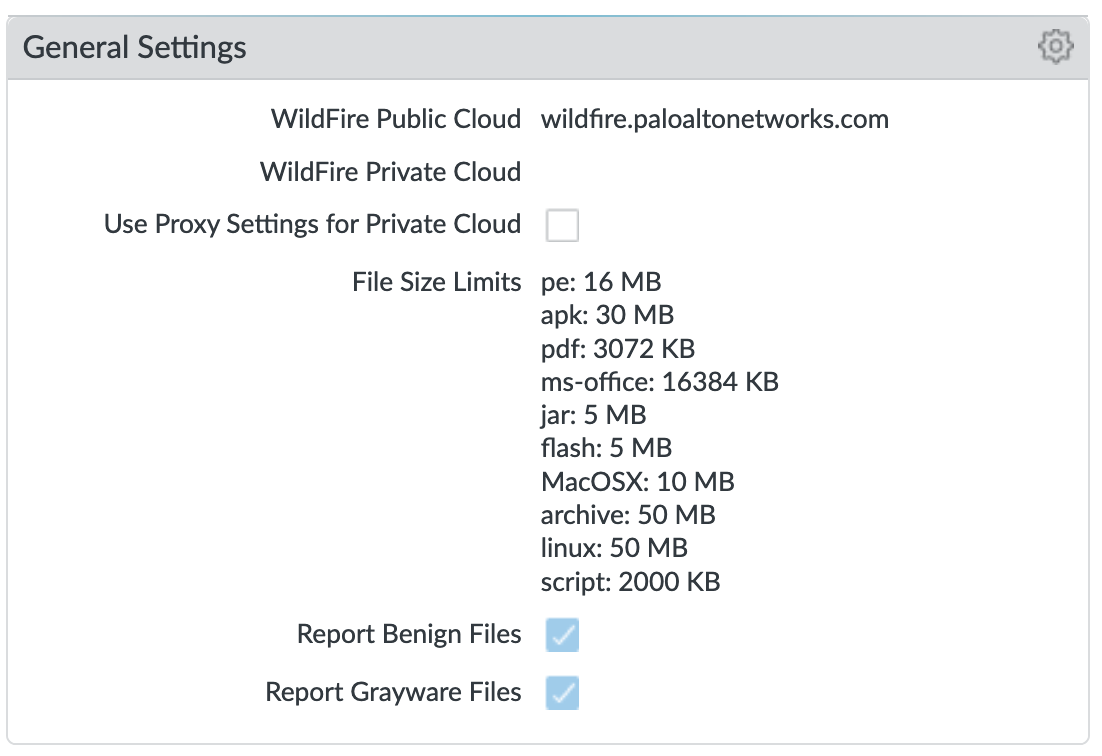
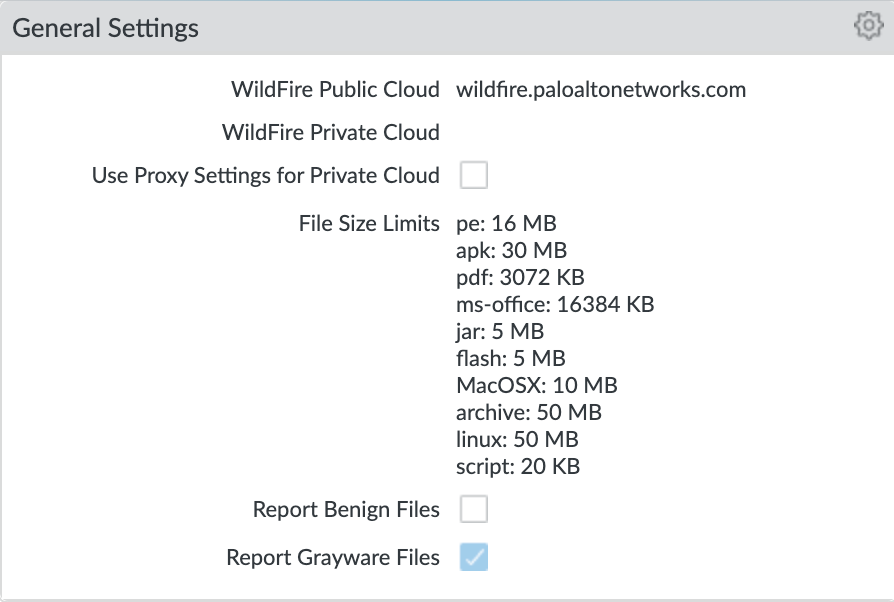
Viz Guide updates for 10.2

diff --git a/docs/viz_guide_panos.rst b/docs/viz_guide_panos.rst
@@ -97,8 +97,8 @@ Changes to Logging and Reporting Settings:
 Log Suppression (CLI only)
 ++++++++++++++++++++++++++
 
-Log suppression, when enabled, is a feature that instructs the Palo Alto Networks device to combine multiple similar logs into a single log entry 
-on the Monitor > Logs > Traffic page. 
+Log suppression, when enabled, is a feature that instructs the Palo Alto Networks device to combine multiple similar logs into a single log entry
+on the Monitor > Logs > Traffic page.
 
 Disabled to ensure unique log entries even if similar session types
 
@@ -221,7 +221,7 @@ Disable this option to prevent the firewall
 from forwarding TCP segments and skipping content inspection when the content inspection queue is full.
 
 **Disable Forward segments exceeding UDP content inspection queue**:
-Disable this option to prevent the firewall from forwarding UDP segments and skipping content inspection when the content inspection queue is full. 
+Disable this option to prevent the firewall from forwarding UDP segments and skipping content inspection when the content inspection queue is full.
 
 
 Device > Setup > Content-ID > X-Forwarded-For Headers
@@ -273,7 +273,7 @@ Key configuration elements:
 
     + **WildFire Public Cloud**: where to send file samples for analysis; defaults to the US-based url and can be changed to various regional sites
     + **File Size Limits**: recommended maximum file sizes to send to WildFire
-    + **Report Benign/Grayware Files**: shows these verdicts in the Wildfire submissions logs
+    + **Report Grayware Files**: shows verdicts in the Wildfire submissions logs
 
 .. _wildfire global cloud documentation: https://docs.paloaltonetworks.com/wildfire/10-0/wildfire-admin/wildfire-overview/wildfire-deployments/wildfire-global-cloud.html#
 
@@ -284,7 +284,7 @@ Key configuration elements:
 Session
 ~~~~~~~~
 
-Configure session age-out times, decryption certificate settings, and global session-related settings such as firewalling 
+Configure session age-out times, decryption certificate settings, and global session-related settings such as firewalling
 IPv6 traffic and rematching Security policy to existing sessions when the policy changes.
 
 .. _Device - Setup - Session: https://docs.paloaltonetworks.com/pan-os/10-0/pan-os-web-interface-help/device/device-setup-session.html
@@ -411,7 +411,7 @@ Device > Log Settings > System
 
 **System_Log_Forwarding**: As reference, forward all system logs as syslog using a configured syslog profile
 
-Profiles configurations are in the section :ref:`Server Profiles`. 
+Profiles configurations are in the section :ref:`Server Profiles`.
 
 Configuration
 ~~~~~~~~~~~~~
@@ -444,7 +444,7 @@ Device > Log Settings > User-ID
 
 **User-ID_Log_Forwarding**: As reference, forward all user ID logs as syslog using a configured syslog profile
 
-Profiles configurations are in the section :ref:`Server Profiles`. 
+Profiles configurations are in the section :ref:`Server Profiles`.
 
 Host Information Profile (HIP) Match
 ~~~~~~~~~~~~~~~~~~~~~~~~~~~~~~~~~~~~
@@ -488,7 +488,7 @@ Device > Log Settings > IP-Tag
 
 **IP_Tag**: As reference, forward all IP-Tag logs as syslog using a configured syslog profile
 
-Profiles configurations are in the section :ref:`Server Profiles`.  
+Profiles configurations are in the section :ref:`Server Profiles`.
 
 .. _Server Profiles:
 
@@ -502,7 +502,7 @@ Server Profiles
      General configuration information in the Admin Guide: `Device - Server Profiles`_
 
 .. Note::
-    Since are operational and may vary across user environments, these are focused as ‘reference configurations’ as part of a 
+    Since are operational and may vary across user environments, these are focused as ‘reference configurations’ as part of a
     recommended day one starter configuration.
 
 .. Note::
@@ -556,7 +556,7 @@ Dynamic Updates
 IronSkillet Dynamic Updates
 ~~~~~~~~~~~~~~~~~~~~~~~~~~~
 
-Dynamic updates allow the firewall to periodically check for content updates. Without this schedule configured, no new signature, 
+Dynamic updates allow the firewall to periodically check for content updates. Without this schedule configured, no new signature,
 vulnerabilities, malicious domains, or GlobalProtect files will be locally loaded into the firewall.
 
 Device > Dynamic Updates : schedules
@@ -566,37 +566,37 @@ Device > Dynamic Updates : schedules
    :width: 600
    :align: center
 
-Updates are configured with minimum time values to ensure new content loads are applied when available. 
+Updates are configured with minimum time values to ensure new content loads are applied when available.
 They are also installed at the time of download.
 
 Time schedules are varied around the hour to avoid download/install overlap between update types.
 
 Antivirus
 ~~~~~~~~~
-Includes new and updated antivirus signatures, including signatures discovered by WildFire. You must have a Threat Prevention 
+Includes new and updated antivirus signatures, including signatures discovered by WildFire. You must have a Threat Prevention
 subscription to get these updates. New antivirus signatures are published daily.
 
 Applications and Threats
 ~~~~~~~~~~~~~~~~~~~~~~~~
-Includes new and updated application and threat signatures. This update is available if you have a Threat Prevention subscription 
-(and in this case you will get this update instead of the Applications update). New Applications and Threats updates are published weekly. 
+Includes new and updated application and threat signatures. This update is available if you have a Threat Prevention subscription
+(and in this case you will get this update instead of the Applications update). New Applications and Threats updates are published weekly.
 This means that the latest content update always includes the application and threat signatures released in previous versions.
 
 WildFire
 ~~~~~~~~
 Provides real-time malware and antivirus signatures created as a result of the analysis done by the WildFire public cloud.
-Without the WildFire subscription, you must wait 24 to 48 hours for the WildFire signatures to roll into the Applications and Threat update. 
+Without the WildFire subscription, you must wait 24 to 48 hours for the WildFire signatures to roll into the Applications and Threat update.
 
 GlobalProtect Clientless VPN
 ~~~~~~~~~~~~~~~~~~~~~~~~~~~~
-Contains new and updated application signatures to enable Clientless VPN access to common web applications from the GlobalProtect portal. 
-You must have a GlobalProtect subscription to receive these updates. In addition, you must create a schedule for these updates before 
+Contains new and updated application signatures to enable Clientless VPN access to common web applications from the GlobalProtect portal.
+You must have a GlobalProtect subscription to receive these updates. In addition, you must create a schedule for these updates before
 GlobalProtect Clientless VPN will function.
 
 GlobalProtect Data File
 ~~~~~~~~~~~~~~~~~~~~~~~
-Contains the vendor-specific information for defining and evaluating host information profile (HIP) data returned by GlobalProtect apps. 
-You must have a GlobalProtect gateway subscription in order to receive these updates. In addition, you must create a schedule for these 
+Contains the vendor-specific information for defining and evaluating host information profile (HIP) data returned by GlobalProtect apps.
+You must have a GlobalProtect gateway subscription in order to receive these updates. In addition, you must create a schedule for these
 updates before GlobalProtect will function.
 
 Network
@@ -614,20 +614,21 @@ Network Profiles
 Zone Protection
 ~~~~~~~~~~~~~~~
 
-IronSkillet includes ‘non volumetric’ recommendations that are device and deployment specific. 
-This is configured as the Recommended_Zone_Protection profile and should be added to configured zones.
+IronSkillet includes ‘non volumetric’ recommendations that are device and deployment specific.
+This is configured as the Recommended_Zone_Protection profile and should be added to configured zones. IronSkillet also
+provides an Alert_Only_Zone_Protection profile for users to monitor zones without blocking traffic.
 
 .. Note::
     IronSkillet does not include zone configurations so the user must apply this profile when configured zones.
 
-Network > Network Profiles > Zone Protection Profile > Recommended_Zone_Protection > Reconnaissance Protection
+Network > Network Profiles > Zone Protection Profile > Recommended_Zone_Protection/Alert_Only_Zone_Protection > Reconnaissance Protection
 ++++++++++++++++++++++++++++++++++++++++++++++++++++++++++++++++++++++++++++++++++++++++++++++++++++++++++++++
 
 .. image:: images/vg_zoneProtect_recon.png
    :width: 600
    :align: center
 
-TCP Port Scan, Host Sweep, and UDP Port Scan are enabled in alert-only mode to monitoring without blocking. 
+TCP Port Scan, Host Sweep, and UDP Port Scan are enabled in alert-only mode to monitoring without blocking.
 
 .. Note::
     Active blocking requires network tuning.
@@ -641,6 +642,15 @@ Network > Network Profiles > Zone Protection Profile > Recommended_Zone_Protecti
 
 IP Drop settings enabled for a spoofed IP address and malformed packets.
 
+Network > Network Profiles > Zone Protection Profile > Alert_Only_Zone_Protection > Packet Based Attack Protection > IP Drop
++++++++++++++++++++++++++++++++++++++++++++++++++++++++++++++++++++++++++++++++++++++++++++++++++++++++++++++++++++++++++++++
+
+.. image:: images/vg_alert_zoneProtect_packetBased.png
+   :width: 600
+   :align: center
+
+No IP Drop settings have been enabled for the the Alert Only profile.
+
 Network > Network Profiles > Zone Protection Profile > Recommended_Zone_Protection > Packet Based Attack Protection > TCP Drop
 ++++++++++++++++++++++++++++++++++++++++++++++++++++++++++++++++++++++++++++++++++++++++++++++++++++++++++++++++++++++++++++++
 
@@ -649,6 +659,16 @@ Network > Network Profiles > Zone Protection Profile > Recommended_Zone_Protecti
    :align: center
 
 TCP Drop settings enabled for TCP SYN with Data, SYNACK with Data. Also to strip TCP Timestamp.
+
+
+Network > Network Profiles > Zone Protection Profile > Alert_Only_Zone_Protection > Packet Based Attack Protection > TCP Drop
+++++++++++++++++++++++++++++++++++++++++++++++++++++++++++++++++++++++++++++++++++++++++++++++++++++++++++++++++++++++++++++++
+
+.. image:: images/vg_alert_zoneProtect_TCPdrop.png
+   :width: 600
+   :align: center
+
+Default TCP Drop settings are set here with nothing more enabled for the Alert Only profile.
 
 .. Note::
     These are explicit enables in the template to ensure not disabled across software versions.
@@ -730,7 +750,6 @@ Security profiles in IronSkillet are explicitly named using one or more of the f
     + **Outbound**: traffic originating inside the network accessing external sites
     + **Inbound**: traffic originating outside the network accessing internal sites
     + **Internal**: traffic originating inside the network access other internal sites
-    + **Exception**: user-defined profile that can be used without changing the base profiles
     + **Alert-Only**: alert-only for any traffic sessions; not recommended when blocking required
 
 AntiVirus
@@ -744,8 +763,8 @@ Object > Security Profiles > Antivirus : Blocking
 +++++++++++++++++++++++++++++++++++++++++++++++++
 
     * reset-both for all decoder actions: Antivirus and Wildfire
-    * 10.0 includes reset-both for Dynamic Classification actions
-    * 10.0 includes enable for all file types
+    * Includes reset-both for Dynamic Classification actions
+    * Includes enable for all file types
 
 .. image:: images/vg_profiles_av_block.png
    :width: 600
@@ -757,24 +776,14 @@ Object > Security Profiles > Antivirus : Alert-Only
 +++++++++++++++++++++++++++++++++++++++++++++++++++
 
     * alert for all decoder actions: Antivirus and Wildfire
-    * 10.0 includes alert for Dynamic Classification actions
-    * 10.0 includes enable (alert only) for all file types
+    * Includes alert for Dynamic Classification actions
+    * Includes enable (alert only) for all file types
 
 .. image:: images/vg_profiles_av_alert.png
    :width: 600
    :align: center
 
 Sets all decoders to alert mode.
-
-Object > Security Profiles > Antivirus : Exception
-++++++++++++++++++++++++++++++++++++++++++++++++++
-
-.. image:: images/vg_profiles_av_exception.png
-   :width: 600
-   :align: center
-
-Set in blocking mode as default. This profile is a placeholder to be customized by the user and used in security
-profile groups and policies without the need to edit the IronSkillet blocking profiles.
 
 .. _Anti-Spyware Profile:
 
@@ -860,16 +869,6 @@ All DNS Security Service domain actions are set to 'allow' with no blocking post
    :align: center
 
 
-Object > Security Profiles > Antivirus : Exception-AS
-+++++++++++++++++++++++++++++++++++++++++++++++++++++
-
-This is a placeholder allowing for custom rules without editing the base template configuration profiles.
-The exception placeholder contains no preconfigured rules.
-
-.. image:: images/vg_profiles_as_exception.png
-   :width: 600
-   :align: center
-
 Vulnerability
 ~~~~~~~~~~~~~
 
@@ -917,15 +916,6 @@ Object > Security Profiles > Vulnerability Protection : Alert-Only-VP
 Alert-Only provides a monitoring-only profile for vulnerability events.
 It is designed for use in demonstration or test deployments without active blocking.
 
-Object > Security Profiles > Vulnerability Protection : Exception-VP
-++++++++++++++++++++++++++++++++++++++++++++++++++++++++++++++++++++
-
-.. image:: images/vg_profiles_vp_exception.png
-   :width: 600
-   :align: center
-
-This profile is a placeholder only allowing a user to customize their own ruleset without modifying the
-default IronSkillet profiles.
 
 URL Filtering
 ~~~~~~~~~~~~~
@@ -939,10 +929,29 @@ Object > Security Profiles > URL-Filtering
    :width: 600
    :align: center
 
-IronSkillet provides only 3 profiles for URL excluding the Inbound and Internal used in the other profiles.
+IronSkillet provides only 2 profiles for URL excluding the Inbound and Internal used in the other profiles.
 The IronSkillet assumption is that only outbound requests may be accessing malicious sites.
 In IronSkillet 10.1 added advanced URL Filtering changes, specifically updated real-time-detection categories to alert
-for all 3 profiles.
+for all profiles.
+
+Object > Security Profiles > URL-Filtering : HTTP Header Logging
+++++++++++++++++++++++++++++++++++++++++++++++++++++++++++++++++
+
+.. image:: images/vg_profiles_HTTP_header_url.png
+   :width: 600
+   :align: center
+
+User-Agent, Referer and X-Forwarded-For HTTP Header Logging options have all been toggled on, added
+in IronSkillet 10.2.
+
+Object > Security Profiles > URL-Filtering : Advanced URL Filtering
++++++++++++++++++++++++++++++++++++++++++++++++++++++++++++++++++++
+
+.. image:: images/vg_advanced_url.png
+   :width: 600
+   :align: center
+
+Advanced URL Filtering inline local and cloud categorization have all been toggled on, added in Ironskillet 10.2.
 
 Object > Security Profiles > URL-Filtering : Outbound-URL
 +++++++++++++++++++++++++++++++++++++++++++++++++++++++++
@@ -952,7 +961,7 @@ Object > Security Profiles > URL-Filtering : Outbound-URL
 IronSkillet only blocks known malicious categories and not high risk categories such as copyright-infringement
 mentioned in our Best Practice Assessment (BPA).
 
-Categories blocked in the Outbound and Exception profiles:
+Categories blocked in the Outbound profiles:
 
     + Malware
     + Command-and-Control
@@ -985,7 +994,7 @@ and User Credential Submission. No categories are blocked.
 File Blocking
 ~~~~~~~~~~~~~
 
-This set of profiles allow the NGFW to explicitly block files transiting the firewall by type and direction. 
+This set of profiles allow the NGFW to explicitly block files transiting the firewall by type and direction.
 
 Object > Security Profiles > File-Blocking
 ++++++++++++++++++++++++++++++++++++++++++
@@ -1004,6 +1013,23 @@ although not recommended, business purposes.
 .. Note::
     Supported WildFire file types, even if blocked, will be sent to WildFire for analysis if Wildfire is
     license and configured in the device.
+
+
+External Dynamic Lists
+~~~~~~~~~~~~~~~~~~~~~~
+
+EDL's are text files that allow the firewall to import objects and enforce policies based on contents
+of the EDL. In order to enforce policies on the entries included in the EDL, the list must be referenced
+in a supported policy rule or profile. Added in 10.2 Ironskillet are Bulletproof IP addresses and Tor
+exit IP addresses.
+
+Object > External Dynamic Lists
++++++++++++++++++++++++++++++++
+
+.. image:: images/vg_external_dynamic_list.png
+   :width: 600
+   :align: center
+
 
 WildFire Analysis
 ~~~~~~~~~~~~~~~~~
@@ -1350,4 +1376,3 @@ Monitor > PDF Reports > Email Scheduler
    :align: center
 
 It is up to the user to finalize configuration by setting the recurrence for how often the email should be generated and sent.
-
